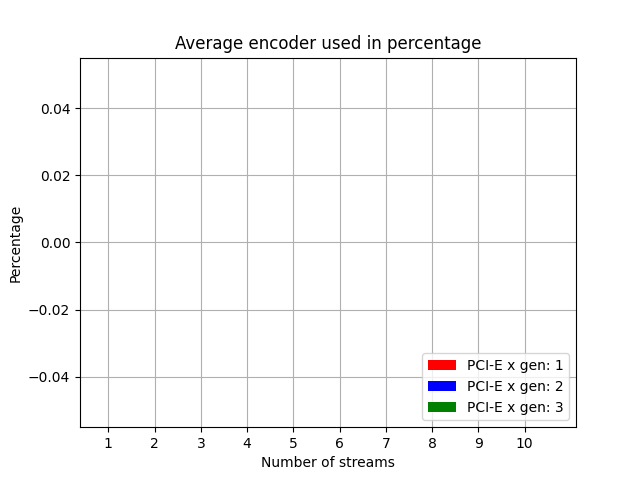
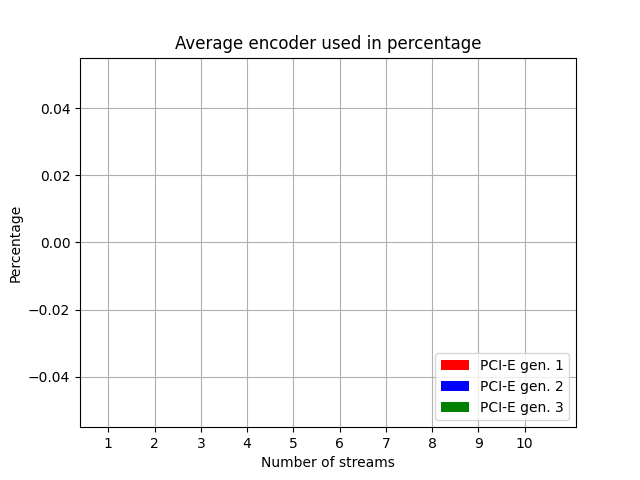
fix label text

Changed region(s): [[0.6562, 0.7188, 0.875, 0.875]]

diff --git a/handin_2/build_graphs.py b/handin_2/build_graphs.py
@@ -74,7 +74,7 @@ def build_stress_test_bar_chart(test_type:str, report_name = None, dir = DATA_FO
             x = [i + bar_width for i in range(0, FOLDS - 1)]
 
         color = 'r' if pci_gen == 0 else 'b' if pci_gen == 1 else 'g'
-        label = f"PCI-E x gen: {pci_gen + 1}" if _label == None else _label
+        label = f"PCI-E gen. {pci_gen + 1}" if _label == None else _label
 
         plt.figure(0)
         plt.title(f"Average time to decode in seconds")
